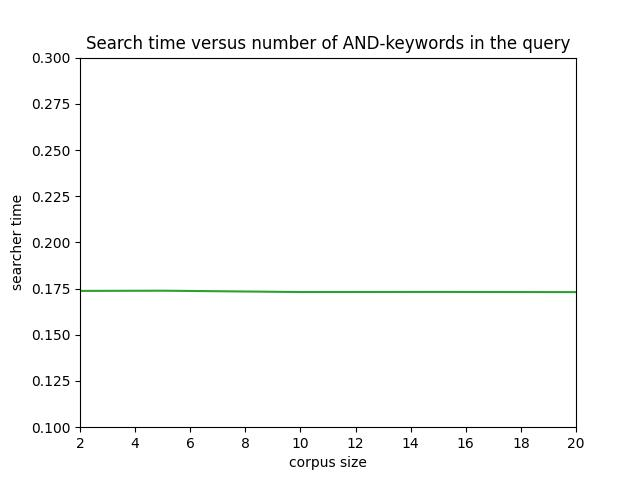
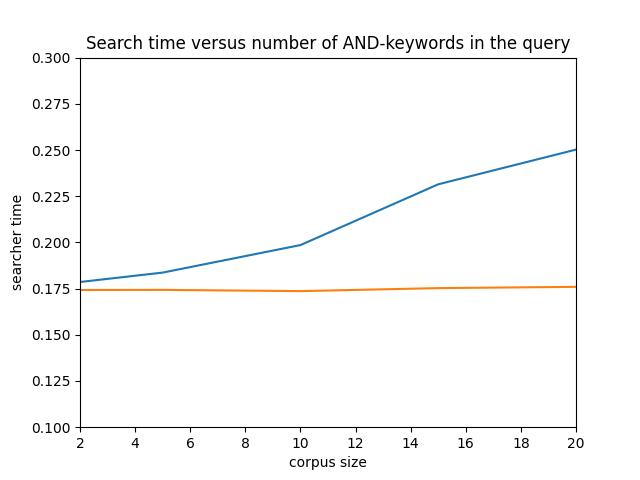
3.21

diff --git a/generate_corpus.py b/generate_corpus.py
@@ -5,58 +5,58 @@ import matplotlib.pyplot as plt
 keywords = ["Oregon", "Competitive", "Services", "program", "LSTA", "federal", "allotment", "through", "Institute", "Museum",
 "funds", "from", "State", "funded", "grant", "projects", "Library", "Technology", "Art", "and"]
 
-metadata = open("metadata.txt", "r")
+# metadata = open("metadata.txt", "r")
 
-corpus = [500, 10000, 15000, 20000, 25000, 30000, 35000, 40000]
+# corpus = [500, 10000, 15000, 20000, 25000, 30000, 35000, 40000]
 
-for i in corpus:
-    file = open(str(i) + ".txt", "w")
-    for j in range(i):
-        file.write(metadata.readline())
-    file.close()
-    metadata.seek(0, 0)
+# for i in corpus:
+#     file = open(str(i) + ".txt", "w")
+#     for j in range(i):
+#         file.write(metadata.readline())
+#     file.close()
+#     metadata.seek(0, 0)
 
-metadata.close()
-
-
-
-indexer_time = []
-searcher_time = []
-
-for i in corpus:
-    # out_file_index = " >" + str(i) + "Index.txt"
-    index_cmd = "./indexer " + str(i) + ".txt " + "database"
-    r = os.popen(index_cmd)
-    indexer_time.append(float(r.readline()))
-    r.close()
-    # out_file_search = " >" + str(i) + "Search.txt"
-    # os.system("./searcher database 10 " + keywords[0] + " " + keywords[1])
-    search_cmd = "./searcher database 10 " + keywords[0] + " " + keywords[1]
-    r = os.popen(search_cmd)
-    searcher_time.append(float(r.readline()))
-    r.close()
-    print("Size " + str(i) + " test finished")
-    shutil.rmtree("database")
+# metadata.close()
 
 
-print(indexer_time)
-print(searcher_time)
 
-plt.plot(corpus, indexer_time)
-plt.ylabel("indexer time")
-plt.xlabel("corpus size")
-plt.xlim(100, 45000)
-plt.ylim(0, 30)
-plt.title("Indexing time versus data size")
-plt.savefig('assets/1.jpg')
+# indexer_time = []
+# searcher_time = []
 
-plt.plot(corpus, searcher_time)
-plt.ylabel("searcher time")
-plt.xlabel("corpus size")
-plt.xlim(100, 45000)
-plt.ylim(0.1, 0.3)
-plt.title("Search time versus data size")
-plt.savefig('assets/2.jpg')
+# for i in corpus:
+#     # out_file_index = " >" + str(i) + "Index.txt"
+#     index_cmd = "./indexer " + str(i) + ".txt " + "database"
+#     r = os.popen(index_cmd)
+#     indexer_time.append(float(r.readline()))
+#     r.close()
+#     # out_file_search = " >" + str(i) + "Search.txt"
+#     # os.system("./searcher database 10 " + keywords[0] + " " + keywords[1])
+#     search_cmd = "./searcher database 10 " + keywords[0] + " " + keywords[1]
+#     r = os.popen(search_cmd)
+#     searcher_time.append(float(r.readline()))
+#     r.close()
+#     print("Size " + str(i) + " test finished")
+#     shutil.rmtree("database")
+
+
+# print(indexer_time)
+# print(searcher_time)
+
+# plt.plot(corpus, indexer_time)
+# plt.ylabel("indexer time")
+# plt.xlabel("corpus size")
+# plt.xlim(100, 45000)
+# plt.ylim(0, 30)
+# plt.title("Indexing time versus data size")
+# plt.savefig('assets/1.jpg')
+
+# plt.plot(corpus, searcher_time)
+# plt.ylabel("searcher time")
+# plt.xlabel("corpus size")
+# plt.xlim(100, 45000)
+# plt.ylim(0.1, 0.3)
+# plt.title("Search time versus data size")
+# plt.savefig('assets/2.jpg')
 
 
 search_test_AND = []
@@ -74,6 +74,14 @@ for i in corpus_size:
     search_test_OR.append(float(r.readline()))
     r.close()
 
+plt.plot(corpus_size, search_test_OR)
+plt.ylabel("searcher time")
+plt.xlabel("corpus size")
+plt.xlim(2, 20)
+plt.ylim(0.1, 0.3)
+plt.title("Search time versus number of OR-keywords in the query")
+plt.savefig('assets/4.jpg')
+
 for i in corpus_size:
     search_cmd = "./searcher database 10 "
     for j in range(i):
@@ -90,12 +98,7 @@ plt.ylim(0.1, 0.3)
 plt.title("Search time versus number of AND-keywords in the query")
 plt.savefig('assets/3.jpg')
 
-plt.plot(corpus_size, search_test_OR)
-plt.ylabel("searcher time")
-plt.xlabel("corpus size")
-plt.xlim(2, 20)
-plt.ylim(0.1, 0.3)
-plt.title("Search time versus number of OR-keywords in the query")
-plt.savefig('assets/4.jpg')
+print(search_test_AND)
+print(search_test_OR)
 
 shutil.rmtree("database")
